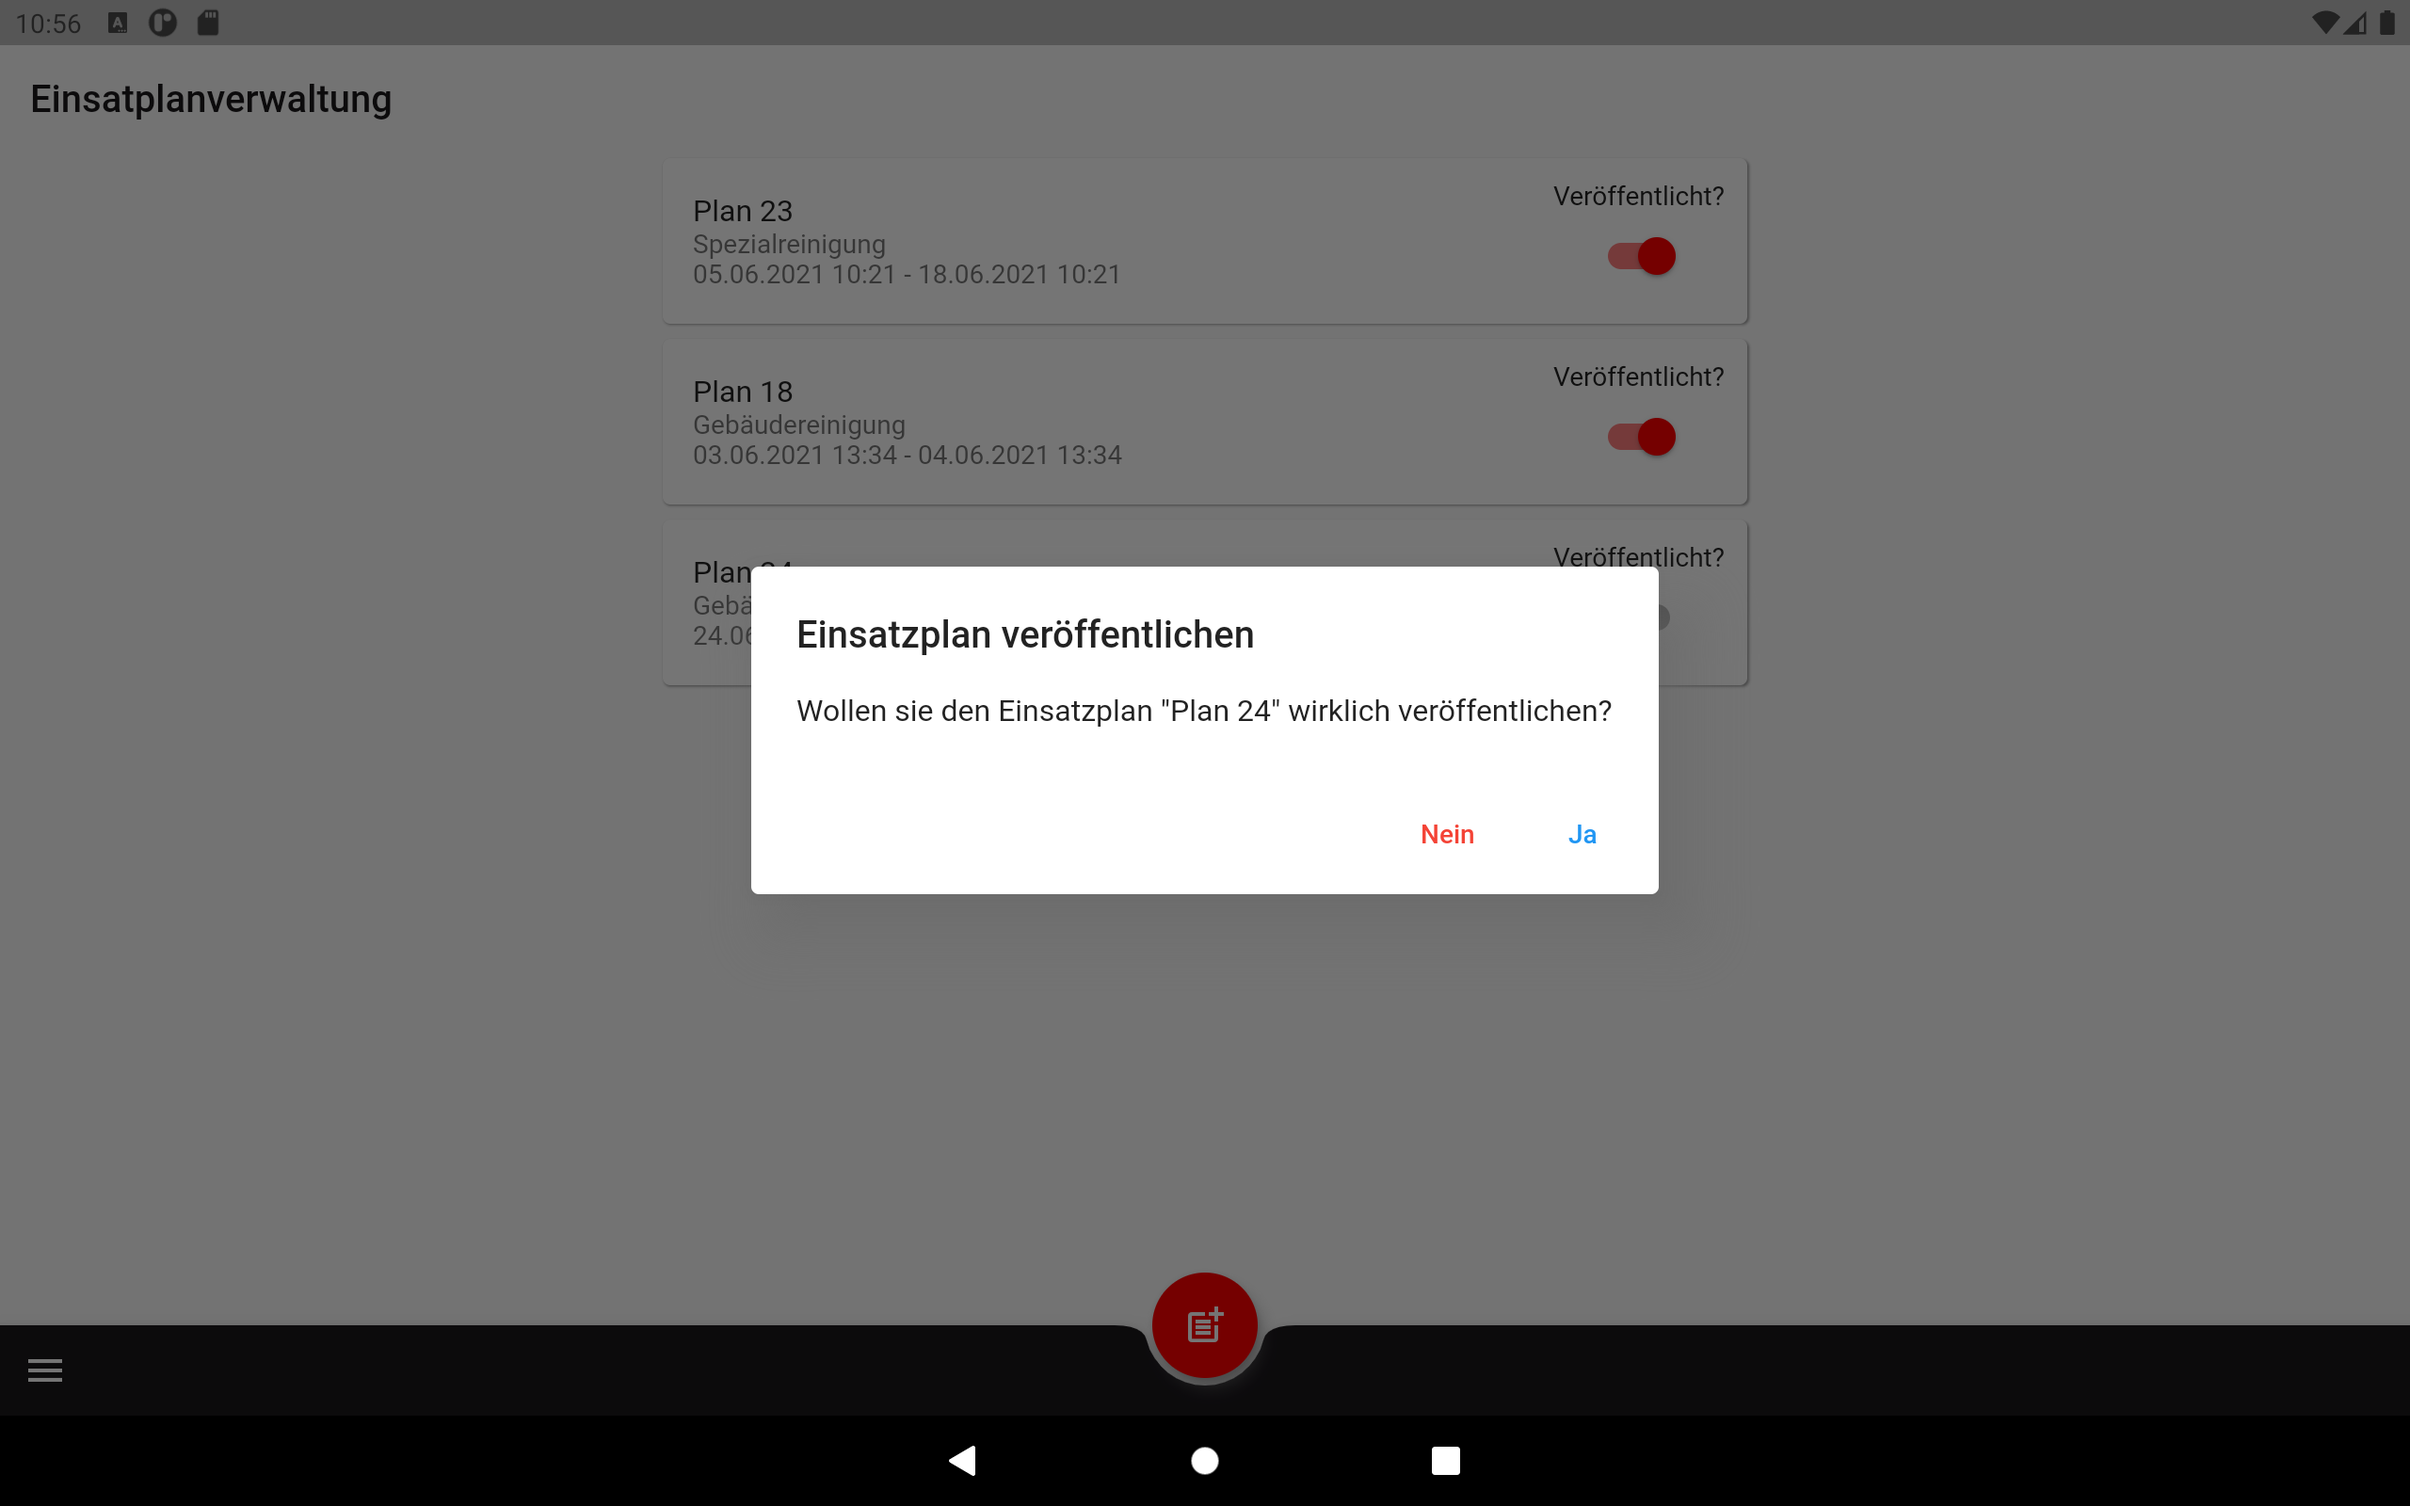
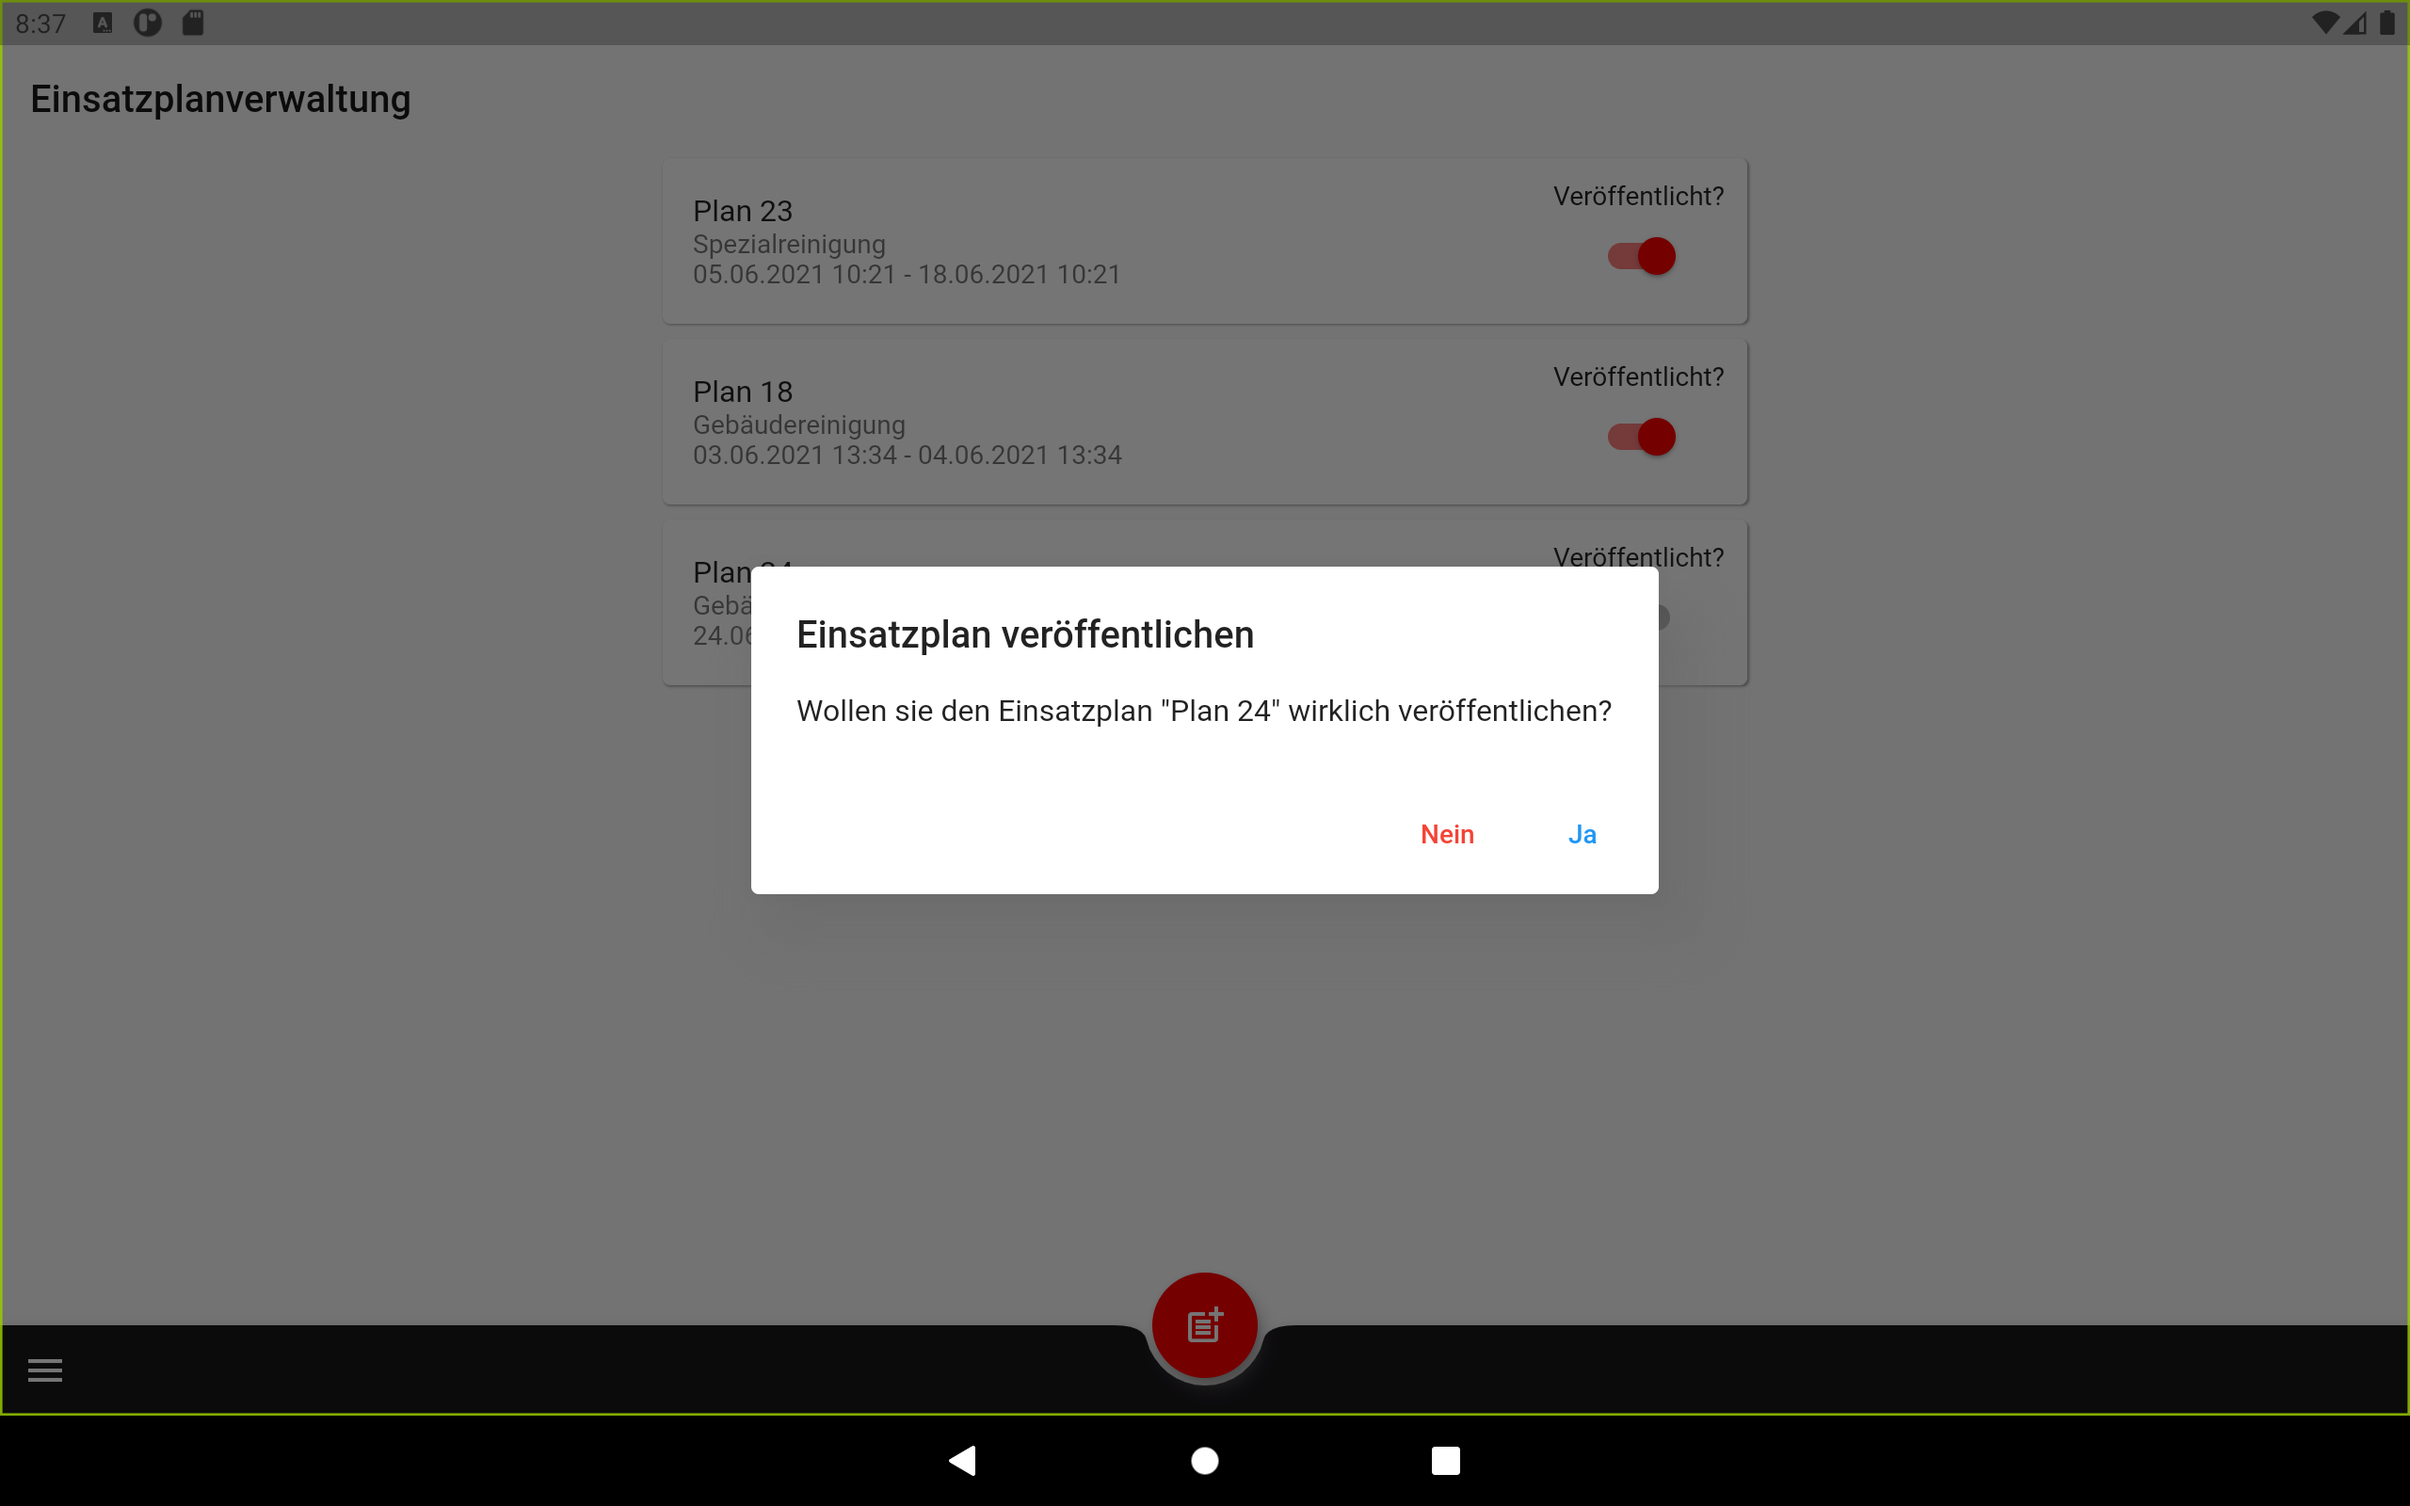
#48 Fix typo

Changed region(s): [[0.0625, 0.0625, 0.1875, 0.0938], [0.0, 0.0, 0.0938, 0.0312]]

diff --git a/pronto_mia/lib/ui/views/deployment_plan/overview/deployment_plan_overview_view.dart b/pronto_mia/lib/ui/views/deployment_plan/overview/deployment_plan_overview_view.dart
@@ -25,7 +25,7 @@ class DeploymentPlanOverviewView extends StatelessWidget {
           adminModeEnabled: adminModeEnabled,
         ),
         builder: (context, model, child) => NavigationLayout(
-          title: adminModeEnabled ? 'Einsatplanverwaltung' : 'Einsatzpläne',
+          title: adminModeEnabled ? 'Einsatzplanverwaltung' : 'Einsatzpläne',
           body: _buildDataView(context, model),
           actions: [
             if (adminModeEnabled)
